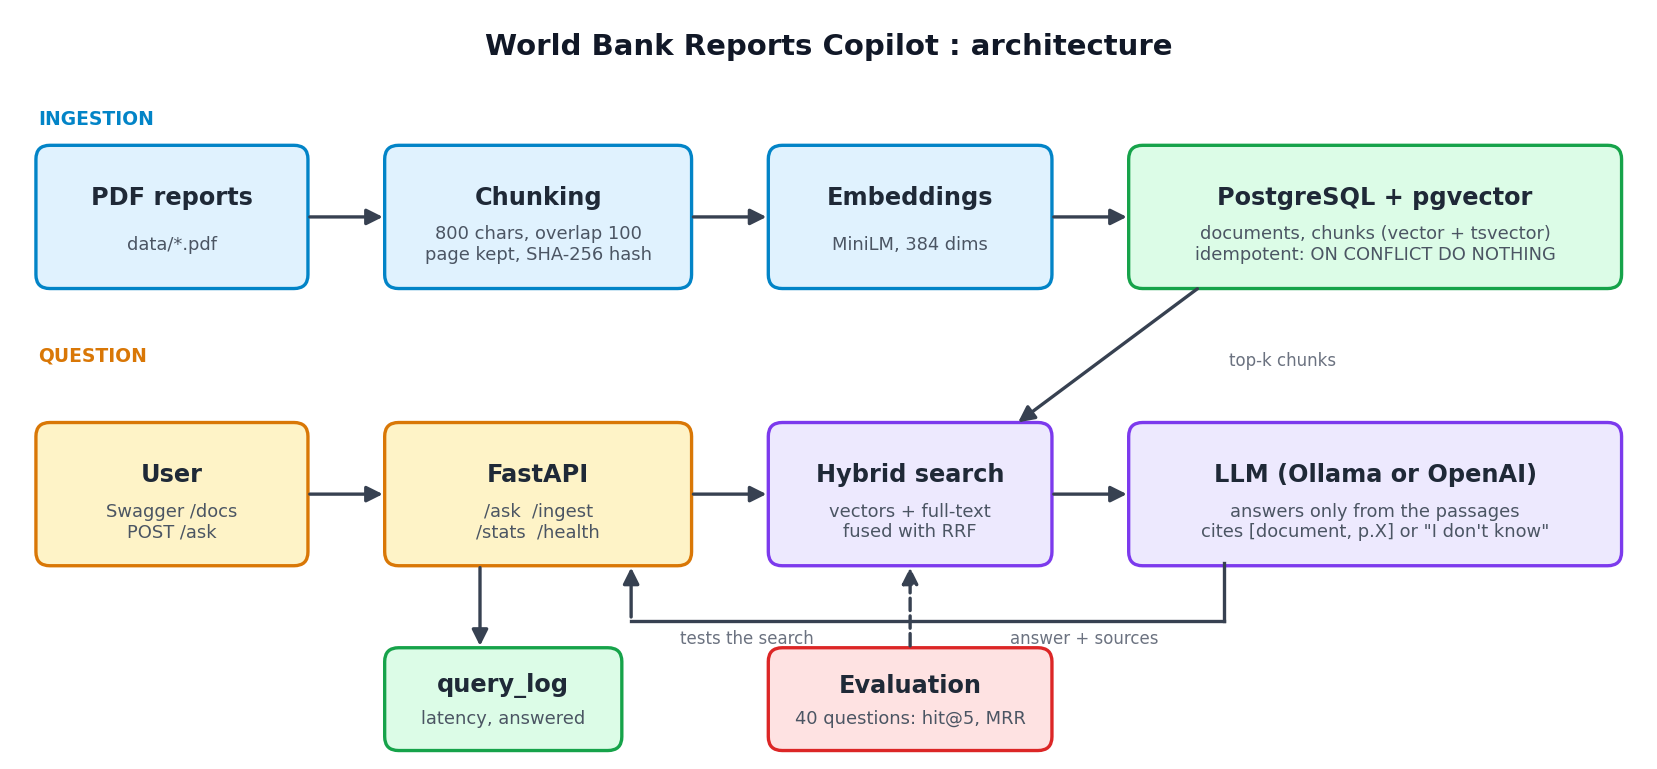
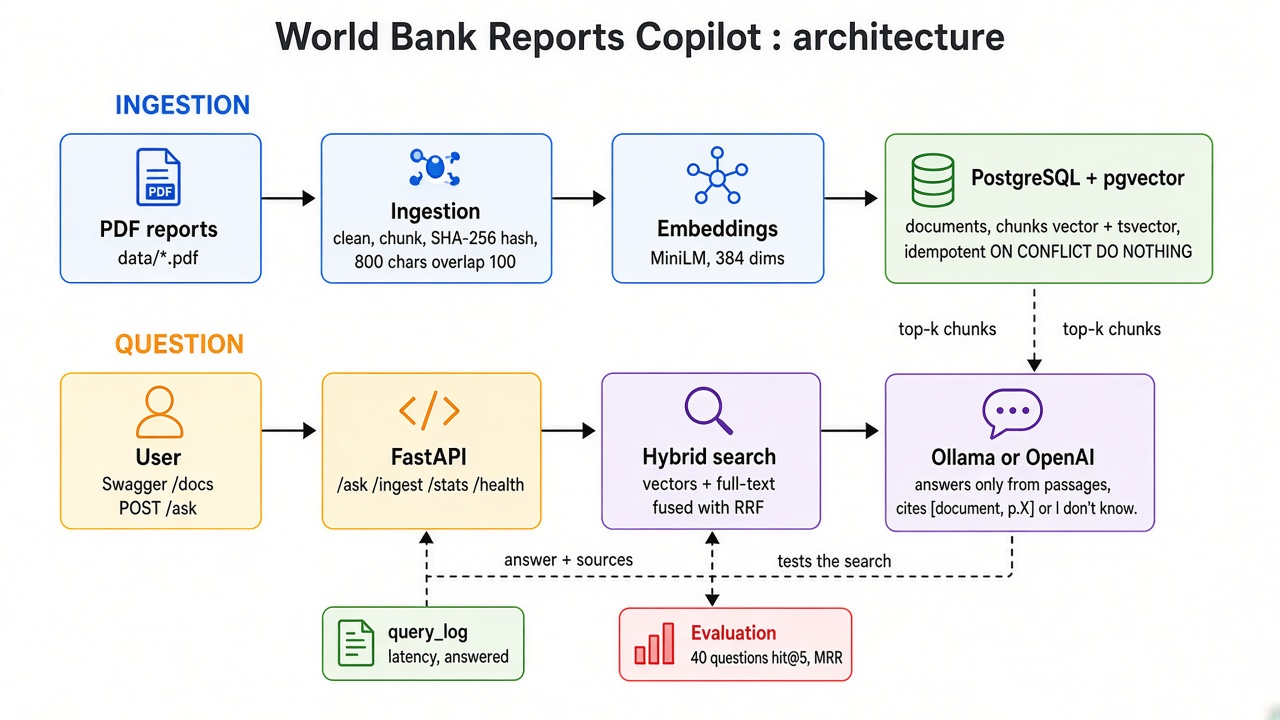
day 14: evaluation numbers and architecture source

diff --git a/README.md b/README.md
@@ -20,11 +20,11 @@ PDFs -> ingestion pipeline (clean, chunk, hash, embed) -> PostgreSQL + pgvector 
 
 | Chunk size / overlap | hit@5 | MRR |
 |---|---|---|
-| 500 / 50 | [ ] | [ ] |
-| 800 / 100 | [ ] | [ ] |
-| 1200 / 150 | [ ] | [ ] |
+| 500 / 50 | 0.825 | 0.669 |
+| 800 / 100 | **0.875** | 0.651 |
+| 1200 / 150 | 0.825 | 0.602 |
 
-Average latency: [ ] ms. Off-topic questions answered "I don't know": [ ] out of [ ].
+Chosen config: **800 / 100**. After 10 logged queries (local Ollama `llama3.2`), `/stats` reported **21.7 s** average latency and **40%** answered. Off-topic questions are refused with "I don't know based on the provided documents."
 
 ## Run it
 
